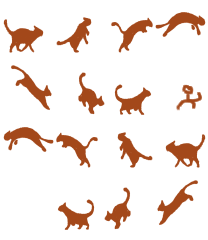
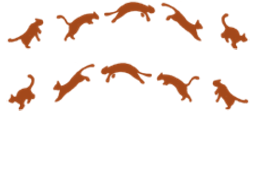
Fixed animation and added gamestate logic

diff --git a/Game1.cs b/Game1.cs
@@ -16,6 +16,7 @@ namespace Cat_Trap
         private GraphicsDeviceManager _graphics;
         private SpriteBatch _spriteBatch;
         private Cat cat;
+        private Menu menu;
         private List<Hexagon> hexagons;
 
         public Game1()
@@ -30,6 +31,7 @@ namespace Cat_Trap
 
         protected override void Initialize()
         {
+            menu = new();
             hexagons = new()
             {
                 Helpers.target
@@ -46,10 +48,10 @@ namespace Cat_Trap
                 hexagon.Link(hexagons.FindAll(neighbor =>
                     Helpers.GetLinking(hexagon.Position).Contains(neighbor.Position)));
 
-                if (Helpers.IsBorderHex(hexagon.Position)) hexagon.Link(hexagons[0]);
+                if (Helpers.IsBorderHex(hexagon.Position)) hexagon.Link(Helpers.target);
             });
 
-            hexagons.ForEach(hexagon => { if (Helpers.rng.NextDouble() < 0.33) hexagon.Deactivate(); });
+            hexagons.ForEach(hexagon => { if (Helpers.rng.NextDouble() < Helpers.fraction && hexagon.Position != Helpers.CatStart && hexagon != Helpers.target) hexagon.Deactivate(); });
 
             Helpers.mouseListener.MouseUp += OnClick;
             
@@ -63,15 +65,15 @@ namespace Cat_Trap
             var target = hexagons.Find(item => item.IsInside(args.Position.ToVector2()));
             var current = GetHexByPosition(cat.Position);
 
-            if (target is not null && args.Button == MouseButton.Left && target.Active && target.Position != cat.Position && !cat.isJumping && !cat.escaped)
+            if (target is not null && args.Button == MouseButton.Left && target.Active && target.Position != cat.Position && !Cat.IsJumping && !Cat.Escaped)
             {
                 target.Deactivate();
 
                 GenerateWeights();
 
-                var possible = 
-                    from hex in hexagons 
-                    where current.Linked.Contains(hex) && hex.Active 
+                var possible =
+                    from hex in hexagons
+                    where current.Linked.Contains(hex) && hex.Active
                     select hex;
 
                 int fastest = int.MaxValue;
@@ -86,6 +88,10 @@ namespace Cat_Trap
                     }
                     if (item.Value == fastest) best.Add(item.Position);
                 }
+                if (fastest == int.MaxValue)
+                {
+                    StateMachine.GameOver(); return;
+                }
                 cat.Jump(best[Helpers.rng.Next(best.Count)]);
             }
         }
@@ -93,7 +99,7 @@ namespace Cat_Trap
         void GenerateWeights()
         {
             hexagons.ForEach(hex => hex.ResetValue());
-            hexagons[0].GenerateValue(0);
+            Helpers.target.GenerateValue(0);
         }
 
         Hexagon GetHexByPosition(Vector2 pos) => hexagons.Find(item => pos == item.Position);
@@ -113,8 +119,8 @@ namespace Cat_Trap
         {
             Helpers.mouseListener.Update(gameTime);
 
-            cat.Update(gameTime);
-
+            if (StateMachine.State != StateMachine.GameState.Menu) cat.Update(gameTime);
+            else menu.Update();
             base.Update(gameTime);
         }
 
@@ -130,7 +136,8 @@ namespace Cat_Trap
             }
 
 
-            cat.Draw(_spriteBatch);
+            if (StateMachine.State != StateMachine.GameState.Menu) cat.Draw(_spriteBatch);
+            else menu.Draw(_spriteBatch);
 
             _spriteBatch.End();
 

diff --git a/Cat.cs b/Cat.cs
@@ -1,19 +1,16 @@
 using Microsoft.Xna.Framework;
 using Microsoft.Xna.Framework.Graphics;
-using MonoGame.Extended;
 using MonoGame.Extended.Sprites;
-using System;
-using System.Diagnostics;
 
 namespace Cat_Trap
 {
     internal class Cat
     {
         public Vector2 Position { get; set; }
-        public Vector2 DrawnPosition { get => isJumping ? LerpPosition : Helpers.ConvertToPixelPosition(Position); }
+        public Vector2 DrawnPosition { get => IsJumping ? LerpPosition : Helpers.ConvertToPixelPosition(Position); }
 
-        public bool isJumping { get; private set; } = false;
-        public bool escaped { get; private set; } = false;
+        public static bool IsJumping { get => StateMachine.State == StateMachine.GameState.CatJumping; }
+        public static bool Escaped { get => StateMachine.State == StateMachine.GameState.CatEscaping; }
 
         private Vector2 LerpPosition;
         Vector2 Destination;
@@ -23,15 +20,20 @@ namespace Cat_Trap
         public Cat(AnimatedSprite sprite) 
         {
             Sprite = sprite;
-            Position = new Vector2(5, 5);
+            Position = Helpers.CatStart;
         }
         public void Update(GameTime gameTime)
         {
             Sprite.Update(gameTime);
 
-            if (escaped) Sprite.Alpha -= (float)(0.0015 * gameTime.ElapsedGameTime.Milliseconds);
+            if (Escaped) Sprite.Alpha -= (float)(0.0015 * gameTime.ElapsedGameTime.Milliseconds);
 
-            if (!isJumping) return;
+            if (Escaped && Sprite.Alpha <= 0)
+            {
+                StateMachine.GameOver();
+            }
+
+            if (StateMachine.State != StateMachine.GameState.CatJumping && StateMachine.State != StateMachine.GameState.CatEscaping) return;
 
             if (StartedJump == 0) StartedJump = gameTime.TotalGameTime.TotalMilliseconds;
 
@@ -45,14 +47,14 @@ namespace Cat_Trap
         }
         public void Jump(Vector2 dest)
         {
-            if (dest == Position || isJumping) return;
+            if (dest == Position || IsJumping) return;
             if (dest == Helpers.target.Position)
             {
                 JumpOff();
                 return;
             }
             Destination = dest;
-            isJumping = true;
+            StateMachine.BeginJump();
 
             var animation = Helpers.DetermineJumpDirection(Position, dest).ToString();
             Sprite.Play(animation);
@@ -60,7 +62,7 @@ namespace Cat_Trap
         void Land()
         {
             Position = Destination;
-            isJumping = false;
+            StateMachine.EndJump();
             Destination = Vector2.Zero;
             StartedJump = 0;
             LerpPosition = Vector2.Zero;
@@ -73,7 +75,7 @@ namespace Cat_Trap
             else if (Position.Y == 0) Jump(Position - Vector2.UnitY);
             else if(Position.X == Helpers.hexes - 1) Jump(Position + Vector2.UnitX);
             else if(Position.Y == Helpers.hexes - 1) Jump(Position + Vector2.UnitY);
-            escaped = true;
+            StateMachine.Escaped();
         }
     }
 }

diff --git a/Helpers.cs b/Helpers.cs
@@ -1,10 +1,8 @@
 using Microsoft.Xna.Framework;
-using Microsoft.Xna.Framework.Graphics;
 using MonoGame.Extended;
 using MonoGame.Extended.Input.InputListeners;
 using System;
 using System.Collections.Generic;
-using System.Diagnostics;
 using System.IO;
 
 namespace Cat_Trap
@@ -27,6 +25,11 @@ namespace Cat_Trap
 
         // board
         public const int hexes = 11;
+
+        // fraction of hexes starting deactivated
+        public static double fraction = 0.2;
+
+        public static Vector2 CatStart = new(hexes / 2);
 
         // hexagons
         public const float height = 60;
@@ -74,6 +77,7 @@ namespace Cat_Trap
                 position + new Vector2(position.Y % 2 == 0 ? -1 : 1, 1)
         };
 
+
         // layout
         public const float marginInside = 6;
         public const float marginOutside = 25;
@@ -92,7 +96,7 @@ namespace Cat_Trap
         }
 
         //time of jump animation in ms
-        public const int JumpTime = 800;
+        public const int JumpTime = 500;
 
     }
 }

diff --git a/StateMachine.cs b/StateMachine.cs
@@ -1,0 +1,30 @@
+namespace Cat_Trap
+{
+    internal static class StateMachine
+    {
+        public enum GameState
+        {
+            Awaiting,
+            CatJumping,
+            CatEscaping,
+            Menu
+        }
+        public static GameState State = GameState.Awaiting; 
+        public static void GameOver()
+        {
+            State = GameState.Menu;
+        }
+        public static void BeginJump()
+        {
+            State = GameState.CatJumping;
+        }
+        public static void EndJump()
+        {
+            State = GameState.Awaiting;
+        }
+        public static void Escaped()
+        {
+            State = GameState.CatEscaping;
+        }
+    }
+}

diff --git a/Menu.cs b/Menu.cs
@@ -1,0 +1,20 @@
+using Microsoft.Xna.Framework;
+using Microsoft.Xna.Framework.Graphics;
+using MonoGame.Extended;
+using System;
+
+namespace Cat_Trap
+{
+    internal class Menu
+    {
+        internal void Draw(SpriteBatch spriteBatch)
+        {
+            spriteBatch.FillRectangle(new RectangleF(100, 100, 400, 100), Color.Pink);
+        }
+
+        internal void Update()
+        {
+            
+        }
+    }
+}
